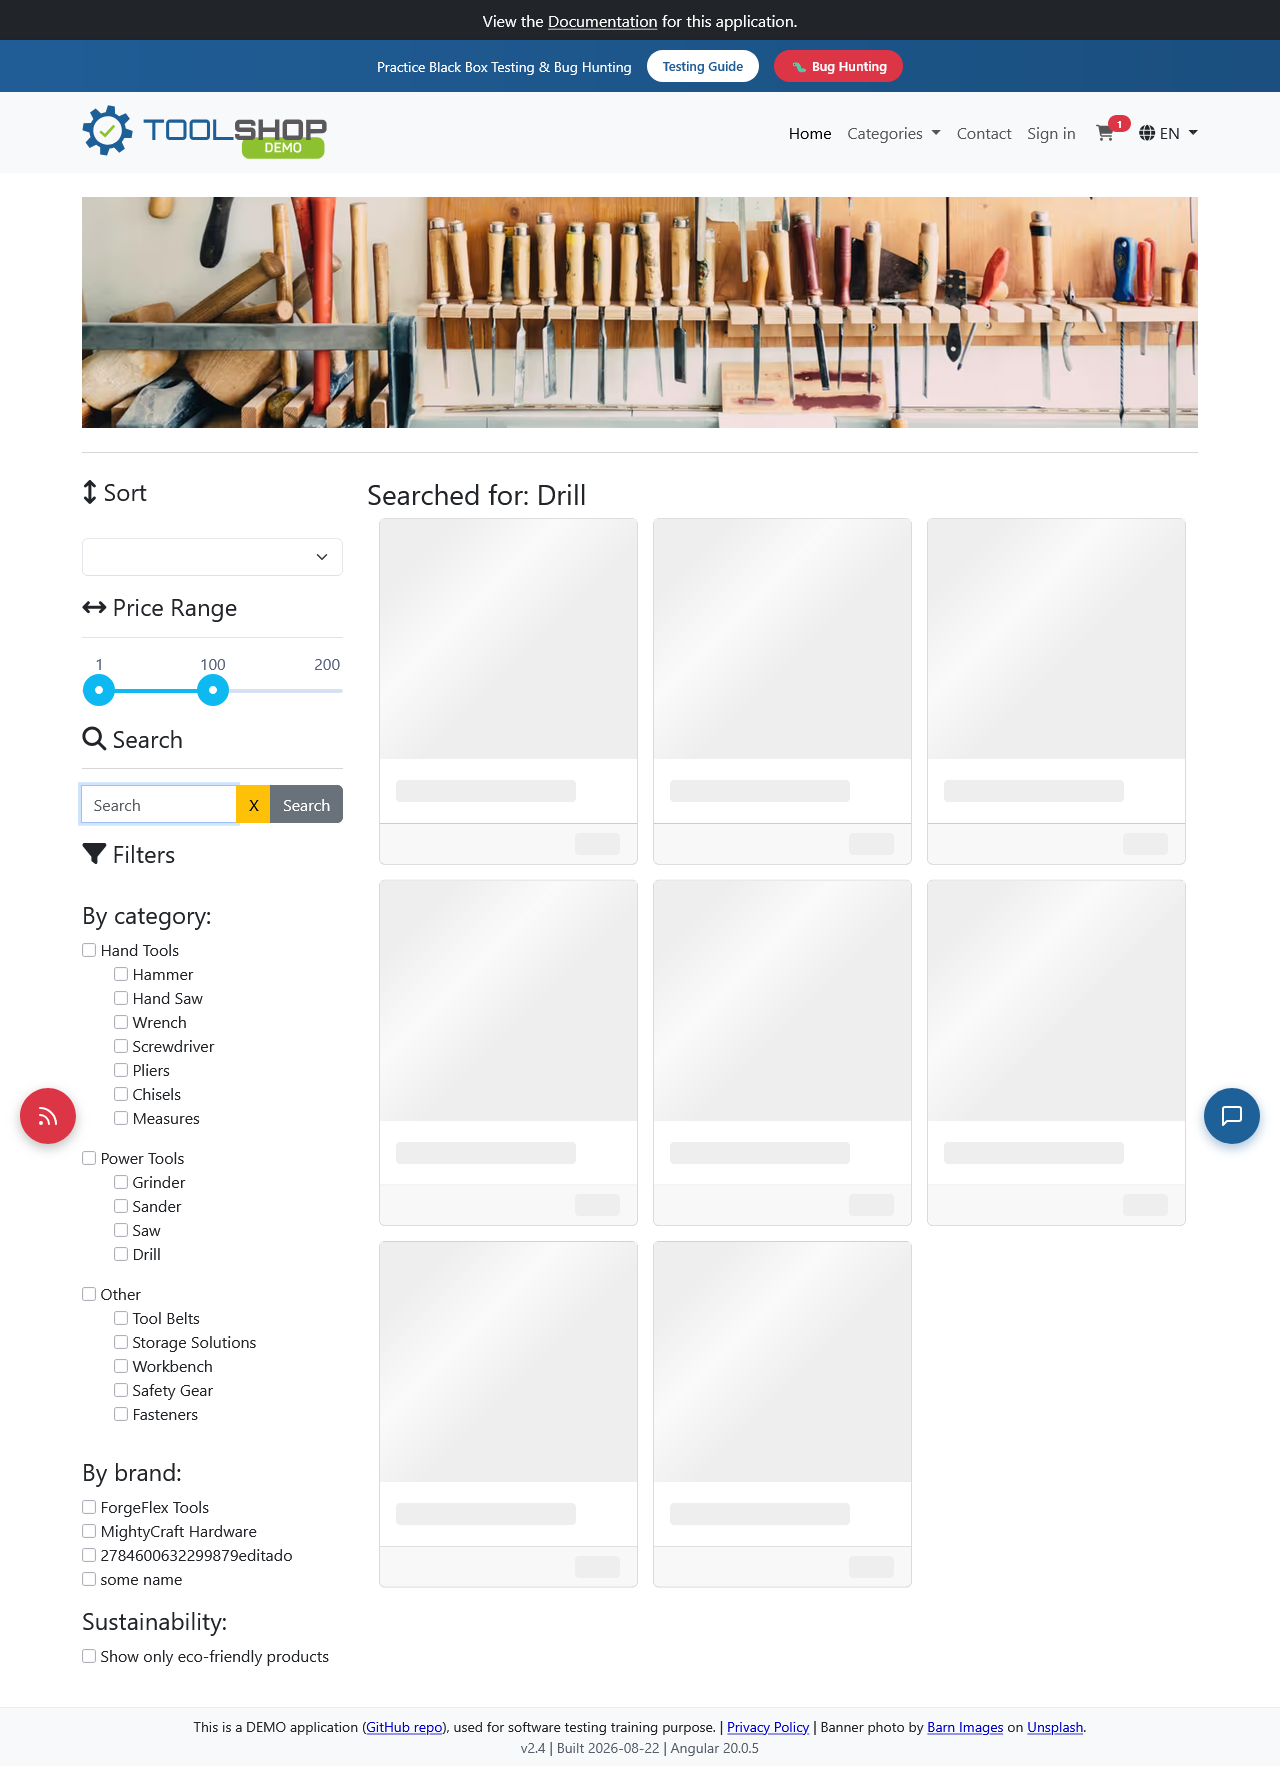
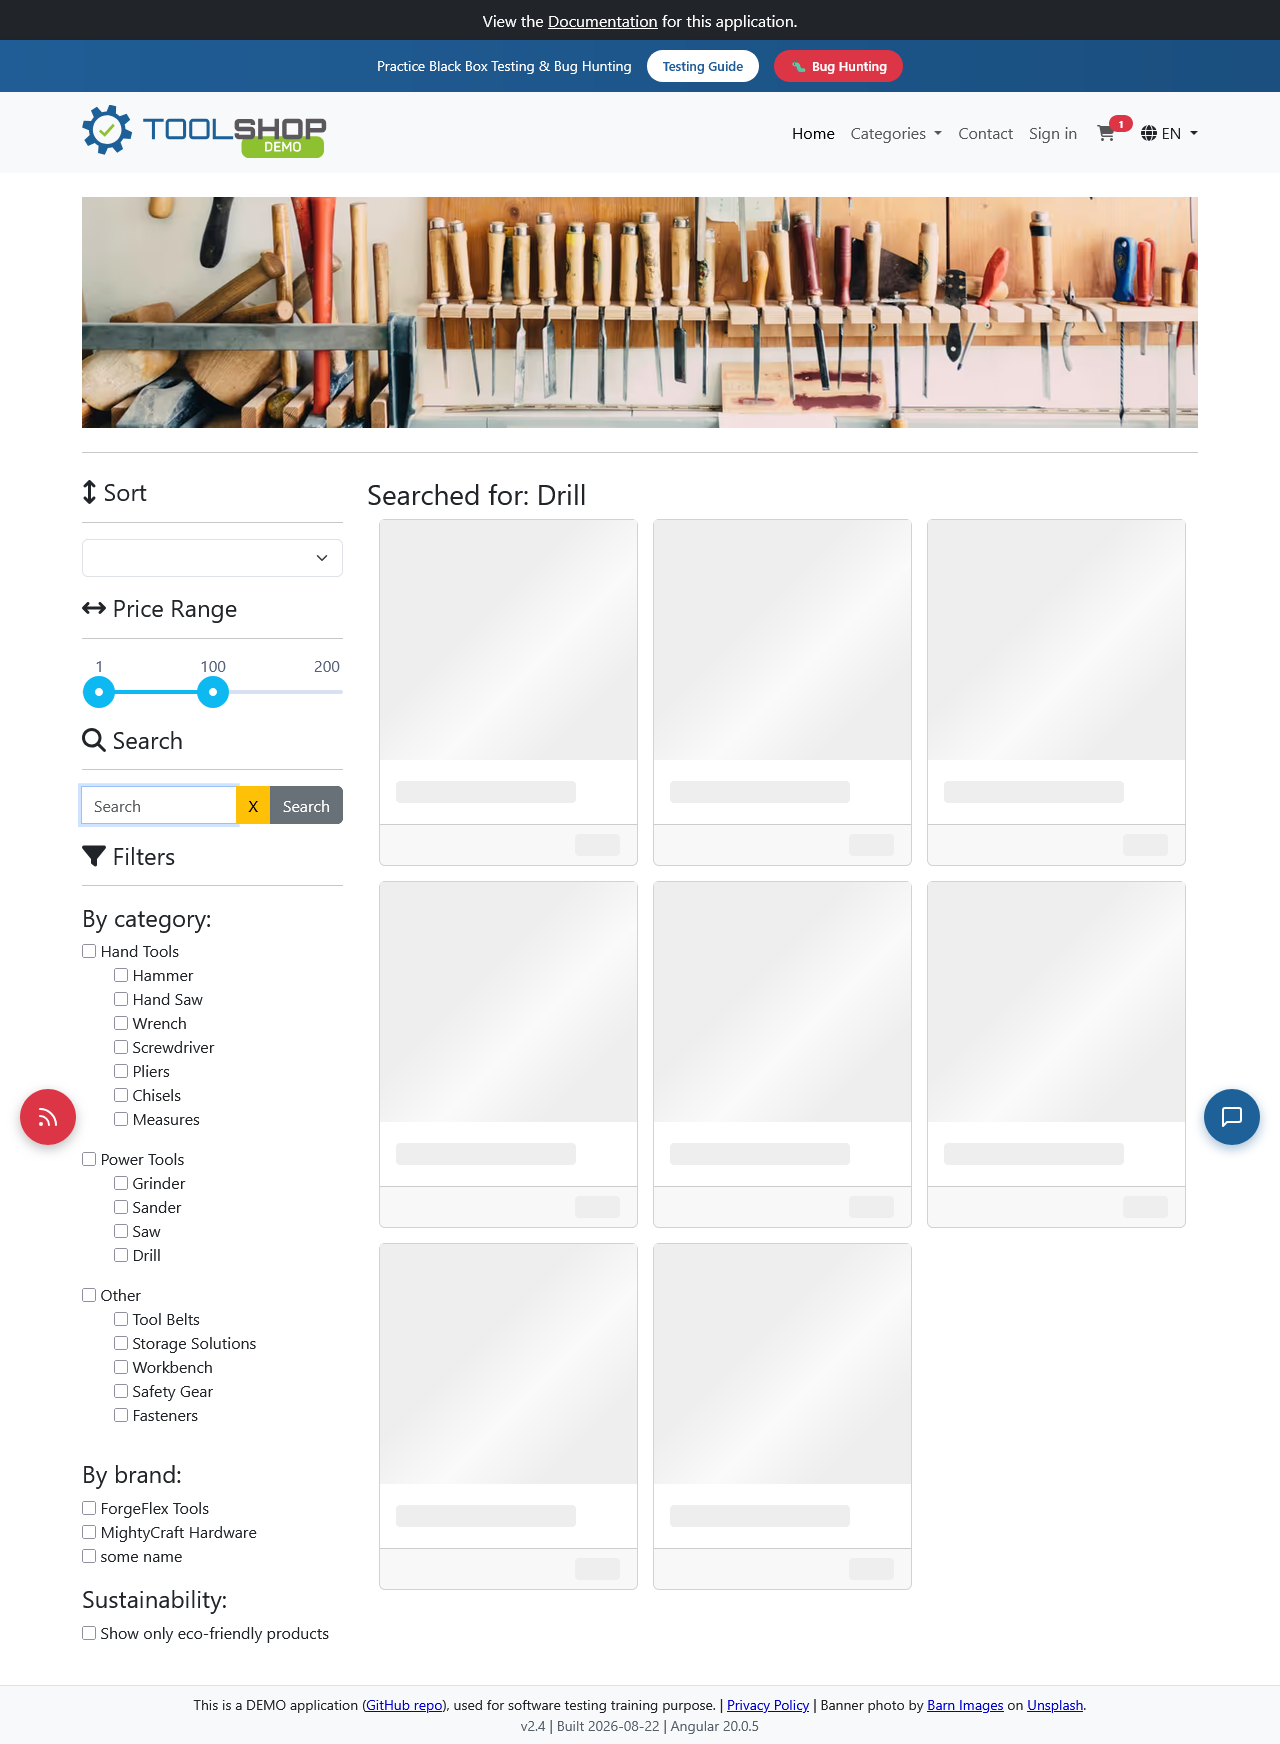
COMPRA FINALIZADA

diff --git a/tests/AddCarrito.spec.ts b/tests/AddCarrito.spec.ts
@@ -30,7 +30,7 @@ test("Carrito de Compras con múltiples productos", async ({ page }) => {
       const itemsEnCarrito = await page.locator('[data-test="cart-item"]').count();
       //expect(itemsEnCarrito).toBeGreaterThan(itemsPrevios);
       //itemsPrevios = itemsEnCarrito;
-await page.screenshot({path: 'screenshots/Carrito/Carrito1.png', fullPage: true});//captura de pantalla
+//await page.screenshot({path: 'screenshots/Carrito/Carrito1.png', fullPage: true});//captura de pantalla
 
       // Volver al home
       await page.getByTestId("nav-home").click();
@@ -38,11 +38,34 @@ await page.screenshot({path: 'screenshots/Carrito/Carrito1.png', fullPage: true}
       console.warn(`No se encontraron tarjetas para: ${producto}`);
     }
   }
-await page.screenshot({path: 'screenshots/Carrito/Carrito.png', fullPage: true});//captura de pantalla
+//await page.screenshot({path: 'screenshots/Carrito/Carrito.png', fullPage: true});//captura de pantalla
 
-  // Validar que el carrito tenga más de un producto
+
  await page.getByTestId("nav-cart").click();
-  //const itemsFinales = await page.locator('[data-test="cart-item"]').count();
-  //expect(itemsFinales).toBeGreaterThan(1);
 await page.getByTestId("proceed-1").click();
+
+// Sign in
+ await page.getByTestId("email").fill("customer@practicesoftwaretesting.com");
+  await page.getByTestId("password").fill("welcome01");
+  await page.getByTestId("login-submit").click();
+ // await page.waitForTimeout(1000);
+  await page.getByTestId("proceed-2").click();
+  // Biññimg Address
+  await page.getByTestId("country").selectOption({ label :'American Samoa' });
+   await page.getByTestId("postal_code").fill("30510");
+   await page.getByTestId("house_number").fill("8836-0616");
+   await page.getByTestId("street").fill("Jessica Dam");
+   await page.getByTestId("city").fill("Feeneyberg");
+   await page.getByTestId("state").fill("Colorado");
+    await page.getByTestId("proceed-3").click();
+ // await page.waitForTimeout(1000);
+
+  // Payment
+   await page.getByTestId("payment-method").selectOption({ label :'Credit Card' });
+  await page.getByTestId("credit_card_number").fill("4111-1111-1111-1111");
+  await page.getByTestId("expiration_date").fill("12/2030");
+  await page.getByTestId("cvv").fill("123");
+  await page.getByTestId("card_holder_name").fill("Lissette Contreras");
+  await page.getByTestId("finish").click();
+  //await page.waitForTimeout(1000);
 });
